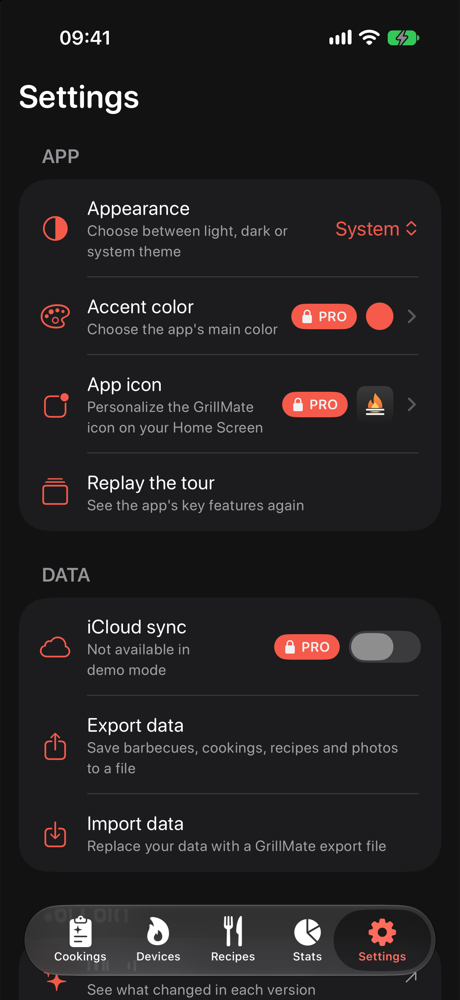
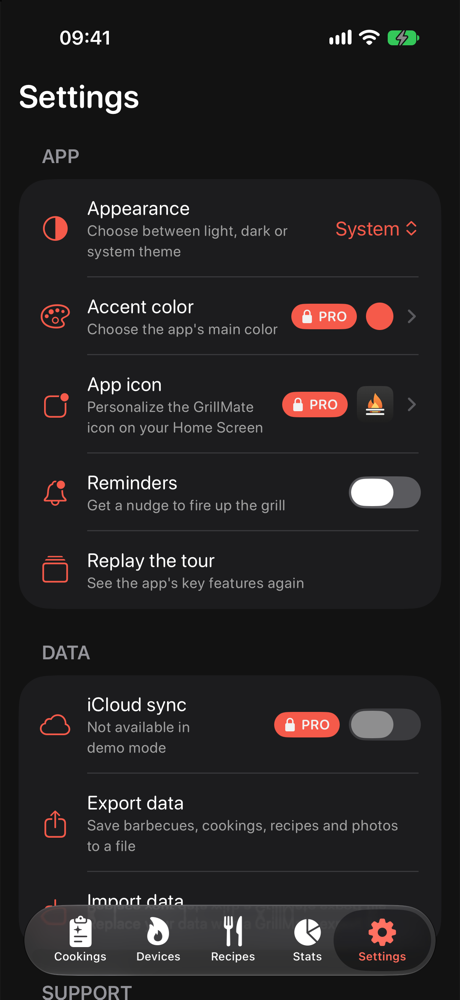
docs: refresh the showcase for engagement notifications (#9)
Add the weekly reminders (on-device AI with Foundation Models, local
notifications) to the hero, at a glance, tech stack, features and
technical highlights, and drop them from what's next. Show the new
Reminders toggle and the six-page onboarding tour.

New reminder banner screenshots; Settings and onboarding re-captured;
the Maestro onboarding GIF re-recorded for the widgets page.

diff --git a/README.md b/README.md
@@ -15,7 +15,7 @@
 
 GrillMate is a **native iOS logbook for barbecue**: record every cooking session, keep track of your grills and smokers, save the recipes you want to make again, see how you cook through **stats and charts**, and keep everything in sync across your devices with **iCloud**. It's built with **SwiftUI for iOS 26**, in **light and dark mode**.
 
-The goal is to **use every iOS feature Apple offers** where it fits a barbecue logbook: SwiftUI and Swift Charts, Core Data with CloudKit, **WidgetKit** Home Screen and Lock Screen widgets, Home Screen quick actions and alternate app icons today, and Live Activities, the Dynamic Island, Control Center controls and AlarmKit next.
+The goal is to **use every iOS feature Apple offers** where it fits a barbecue logbook: SwiftUI and Swift Charts, Core Data with CloudKit, **WidgetKit** Home Screen and Lock Screen widgets, Home Screen quick actions, alternate app icons, **local notifications** and **on-device Apple Intelligence** (Foundation Models) today, and Live Activities, the Dynamic Island, Control Center controls and AlarmKit next.
 
 A personal project by **Andrea Stevanato**, designed, built and tested end to end. The app's source code is private: this README shows what the app does and explains how it's built.
 
@@ -37,7 +37,7 @@ Website: [grillmate.pages.dev](https://grillmate.pages.dev/)
 - [🧱 Architecture](#-architecture)
 - [✨ Features](#-features)
   - [🍖 Cookings](#-cookings) · [🔥 Devices](#-devices) · [📖 Recipes](#-recipes) · [📊 Stats](#-stats)
-  - [🔲 Widgets](#-widgets) · [⚡ Quick actions](#-quick-actions) · [📲 iPhone Duo](#-iphone-duo) · [🔄 iCloud sync](#-icloud-sync) · [🔧 Settings and onboarding](#-settings-and-onboarding)
+  - [🔲 Widgets](#-widgets) · [⚡ Quick actions](#-quick-actions) · [📲 iPhone Duo](#-iphone-duo) · [🔄 iCloud sync](#-icloud-sync) · [🔔 Reminders](#-reminders) · [🔧 Settings and onboarding](#-settings-and-onboarding)
 - [💡 Technical highlights](#-technical-highlights)
 - [✅ Quality](#-quality)
 - [🔭 What's next](#-whats-next)
@@ -48,9 +48,9 @@ Website: [grillmate.pages.dev](https://grillmate.pages.dev/)
 
 | | |
 |---|---|
-| **What** | A complete iOS app: five tabs, add/edit forms with photos, charts, theming, **iCloud sync**, data export and import, **Home Screen and Lock Screen widgets**, **Home Screen quick actions**, **iPhone Duo** support, onboarding, English and Italian |
+| **What** | A complete iOS app: five tabs, add/edit forms with photos, charts, theming, **iCloud sync**, data export and import, **Home Screen and Lock Screen widgets**, **Home Screen quick actions**, weekly **reminders** with seasonal messages written by **on-device AI**, **iPhone Duo** support, onboarding, English and Italian |
 | **Architecture** | **Modular**: one Swift package per feature plus shared core and UI packages, **MVVM** with repositories and **dependency injection** |
-| **Modern Apple stack** | **Swift 6** strict concurrency, **SwiftUI**, Observation, **Swift Charts**, **WidgetKit**, **Core Data with CloudKit**, **Swift Testing** |
+| **Modern Apple stack** | **Swift 6** strict concurrency, **SwiftUI**, Observation, **Swift Charts**, **WidgetKit**, **Core Data with CloudKit**, **Foundation Models**, **UserNotifications**, **Swift Testing** |
 | **Engineering practice** | Generated Xcode project, lint in the build, unit tests per package, **Maestro UI tests**, **Xcode Cloud** tests on every push, **fastlane** TestFlight uploads, Conventional Commits, gitflow and a changelog |
 <!-- showcase:glance:end -->
 
@@ -63,6 +63,8 @@ Website: [grillmate.pages.dev](https://grillmate.pages.dev/)
 | Language | **Swift 6** with strict concurrency; main-actor default isolation and approachable concurrency in the app target |
 | UI | **SwiftUI**, Observation (`@Observable`), **Swift Charts** |
 | Persistence | **Core Data**, used as a Codable store, mirrored to the user's private iCloud database with **CloudKit** |
+| On-device AI | **Foundation Models** with guided generation, falling back to hand-written messages where Apple Intelligence isn't available |
+| Notifications | **UserNotifications**, local only: no server, no push |
 | Dependency injection | [Factory](https://github.com/hmlongco/Factory), behind a thin in-house wrapper |
 | Modularization | Local **Swift packages**: one per feature plus two shared ones |
 | Project generation | [Tuist](https://tuist.dev) |
@@ -225,17 +227,33 @@ Your logbook on every device.
 - **Reinstall and your data comes back**: the sync choice is remembered in iCloud, so a fresh install turns sync back on by itself and restores everything
 - **Export** everything, photos included, to a single file, after a confirmation that shows how many items it will contain, and **import** it back to restore your data on any iPhone
 
+### 🔔 Reminders
+A nudge to fire up the grill, once or twice a week.
+
+<p align="center">
+  <img src="assets/screenshots/reminder.png" alt="A GrillMate reminder banner on the Home Screen: Spooky smoke, a Halloween menu idea (light)" width="260">
+  <img src="assets/screenshots/reminder-dark.png" alt="A GrillMate reminder banner on the Home Screen: Spooky smoke, a Halloween menu idea (dark)" width="260">
+</p>
+
+- **Thursday evening** to plan the weekend cook and **Saturday morning** to fire it up today
+- Messages follow the **moment of the year**, with a recipe idea: Easter week and Easter Monday, Ferragosto, Halloween, Christmas, New Year and the four seasons
+- On iPhones with **Apple Intelligence**, the message is **written on the device** from what you cook: your favourite cuts and techniques, your barbecue, how long since your last cook
+- **No nudge around the days you grill**: a reminder within three days of a cook is skipped
+- Asked for **only after you add a cooking**, never at first launch, and turned on or off in Settings
+- Tapping a reminder opens a **new cooking**
+
 ### 🔧 Settings and onboarding
 
 <p align="center">
-  <img src="assets/screenshots/settings.png" alt="Settings with the Data section (light)" width="200">
-  <img src="assets/screenshots/settings-dark.png" alt="Settings with the Data section (dark)" width="200">
+  <img src="assets/screenshots/settings.png" alt="Settings with the Reminders toggle and the Data section (light)" width="200">
+  <img src="assets/screenshots/settings-dark.png" alt="Settings with the Reminders toggle and the Data section (dark)" width="200">
   <img src="assets/screenshots/onboarding.png" alt="Onboarding tour (light)" width="200">
   <img src="assets/screenshots/onboarding-dark.png" alt="Onboarding tour (dark)" width="200">
 </p>
 
 - **Light, dark or system appearance**, **six accent colors** and **ten app icons**, including Pride, Italy and USA (PRO)
-- A first-launch **onboarding tour** that can be replayed
+- A **Reminders** toggle, which points to iOS Settings when notifications are blocked
+- A first-launch **onboarding tour** that can be replayed, ending with a page about the **Home Screen widgets**
 - Privacy policy, terms of use and release notes open on the GrillMate website, in the app's language
 - Full-screen **photo viewer** with paging and pinch to zoom
 - **English and Italian**
@@ -254,22 +272,19 @@ Every quick action is a **deep link** on a custom URL scheme, parsed into a type
 The widget extension **never touches Core Data or CloudKit**: opening the store from a second process would race with the app and with iCloud mirroring. Instead the app writes a small JSON **snapshot** of what the widgets show into a shared **App Group** container, at launch, when it goes to the background, when data changes and when the theme changes, and reloads the timelines **only when the snapshot changed**, since iOS budgets reloads. The timer is drawn by the system, and a second timeline entry resets the monthly stats when a new month starts.
 
 ### 💾 Core Data as a Codable blob store
-Every persisted entity has the same three attributes: an id, a **JSON-encoded payload** of the domain model and an update date. Domain models stay plain `Codable` Swift structs, and adding a persisted type takes one entity plus a small data source on top of generic fetch and upsert helpers. Models that change shape keep **decoding their legacy payloads**, with tests that decode the old JSON. The schema follows **CloudKit's rules** (no uniqueness constraints, every attribute optional), enforced by a test, and another test **pins the model deployed to production CloudKit**, so a model change can't ship without deploying the schema first.
+Every persisted entity has the same three attributes: an id, a **JSON-encoded payload** of the domain model and an update date. Domain models stay plain `Codable` Swift structs, and adding a persisted type takes one entity plus a small data source on top of generic fetch and upsert helpers. Models that change shape keep **decoding their legacy payloads**, with tests that decode the old JSON. The schema follows **CloudKit's rules** (no uniqueness constraints, every attribute optional), enforced by a test, and another test **pins the model deployed to production CloudKit**, so a model change can't ship without deploying the schema first. Photos live in **their own entities, indexed by owner**, so list fetches never decode image data, and are **downsampled with ImageIO** before being stored.
 
 ### 🔄 iCloud sync that switches live
-A single shared Core Data stack can **reload its store** with or without `NSPersistentCloudKitContainer` on the same file, so turning sync on or off applies immediately. Without uniqueness constraints, reads keep only the newest copy of an id, deletes run in a context so they're mirrored, and remote changes, **coalesced to one per second**, tell the open lists to reload. The sync choice is also saved in **iCloud key-value storage**, which survives deleting the app, so a fresh install silently turns sync back on and the data flows back in.
-
-### 📦 A portable export format
-Export writes one **versioned JSON file** with every item and photo. Import decodes and **validates the whole file** before touching the store, rejects files from newer app versions, and replaces the data only after a confirmation that shows what the file contains.
-
-### 📸 Photos out of the hot path
-Cooking and recipe photos live in **their own entities, indexed by owner**, rather than inside the parent payload, so list fetches never decode image data. Photos are **downsampled with ImageIO** before being stored and are deleted together with their owner.
+A single shared Core Data stack can **reload its store** with or without `NSPersistentCloudKitContainer` on the same file, so turning sync on or off applies immediately. Without uniqueness constraints, reads keep only the newest copy of an id, deletes run in a context so they're mirrored, and remote changes, **coalesced to one per second**, tell the open lists to reload. The sync choice is also saved in **iCloud key-value storage**, which survives deleting the app, so a fresh install silently turns sync back on and the data flows back in. Export writes one **versioned JSON file** with every item and photo; import **validates the whole file** before touching the store and rejects files from newer app versions.
 
 ### 🎨 Design tokens and a themable accent
-Colors, fonts and SF Symbols are read through `Design` **tokens**; features never hard-code a symbol name. The accent color is an **environment value** set once at the root, so changing the theme recolors controls, cards and Swift Charts palettes in one place.
+Colors, fonts and SF Symbols are read through `Design` **tokens**; features never hard-code a symbol name. The accent color is an **environment value** set once at the root, so changing the theme recolors controls, cards and Swift Charts palettes in one place. The ten **alternate app icons** are generated from the master artwork, and the icon change goes through a **small protocol over the system API**, so it's unit-tested without UIKit.
 
-### 📱 Alternate app icons
-Ten home screen icons are **generated from the master artwork**, so each variant keeps the exact flame and grill. The picker shows small previews bundled with the Settings feature, because an app icon set can't be loaded as an image, and the icon change goes through a **small protocol over the system API**, so the logic is unit-tested without UIKit. Alternate icons are PRO: free users see them locked, but **the icon in use is never locked**, so nobody loses the icon they already set.
+### 🧠 On-device AI with a safe fallback
+Reminder messages are written by Apple's **on-device model** (Foundation Models) with **guided generation**: the model fills a typed title and body, which are checked against notification length limits. The prompt grounds it in the moment of the year, a hand-written example and the user's own cooks, and **nothing leaves the device**. Where Apple Intelligence isn't available, or a reply is rejected, a **hand-written catalogue** in English and Italian takes over. The model runs only while the app is active, is **cancelled when it goes to the background**, and its messages are kept per notification until the user's data or language changes.
+
+### 🔔 Notifications that respect the user
+The next four weeks are scheduled as **one-off local notifications**, skipping three days around any cook, in the **Gregorian calendar** whatever the region's calendar. A **singleton actor** runs reschedules one at a time, a stop request reaches even a pass still queued, and the background pass gets **extra time from iOS** to finish. Permission is asked **after the user adds a cooking**, the moment a reminder makes sense, not at first launch.
 
 ### 🧩 Shared UI, different data
 Cards, form fields, photo galleries and the stretchy photo header live in `GrillMateCoreUI`. The onboarding, the lists and the stats render **the same components**: the onboarding feeds them sample strings, the lists feed them domain data.
@@ -278,7 +293,7 @@ Cards, form fields, photo galleries and the stretchy photo header live in `Grill
 PRO status and the free-tier limits are read from a **single entitlement repository**, and the limits are configured in one place. Features ask `isPro()` and never know where the answer comes from.
 
 ### 🧪 Demo data and a dev app
-A separate **development app variant** installs next to the release one, so testing never touches the real install. Two extra schemes launch the app on an **in-memory store** filled with realistic data (barbecues, recipes and a year of cookings dated relative to today), one as a free user and one as PRO. They're used for screenshots, demos, **UI tests** and manual testing, **never touch the real store**, and are compiled only in Debug.
+A separate **development app variant** installs next to the release one, so testing never touches the real install. Two extra schemes launch the app on an **in-memory store** filled with realistic data (barbecues, recipes and a year of cookings dated relative to today), one as a free user and one as PRO. They're used for screenshots, demos, **UI tests** and manual testing, **never touch the real store**, and are compiled only in Debug. The development app also adds a **Debug overlay**, compiled only into it, that sends a test reminder on demand, written by the model or taken from the catalogue.
 
 ### 🌍 Localized per package
 Each package ships its **own string catalog** in English and Italian. A **custom SwiftLint rule** fails the build when a view in a package uses a bare string literal, which would be looked up in the app's catalog and never translated.
@@ -287,7 +302,7 @@ Each package ships its **own string catalog** in English and Italian. A **custom
 <!-- showcase:quality:start -->
 ## ✅ Quality
 
-- **Tests**: more than **100 Swift Testing tests** across the app, core, UI and feature packages, including quick-action building, the widget snapshot, an export and import round trip, restoring iCloud sync after a reinstall, a check that the Core Data model stays CloudKit-compatible, a pin of the production CloudKit schema and decoding tests for legacy payloads.
+- **Tests**: more than **200 Swift Testing tests** across the app, core, UI and feature packages, including the reminder schedule across daylight saving and region calendars, overlapping reschedules, quick-action building, the widget snapshot, an export and import round trip, restoring iCloud sync after a reinstall, a check that the Core Data model stays CloudKit-compatible, a pin of the production CloudKit schema and decoding tests for legacy payloads.
 - **UI tests**: black-box **Maestro** flows drive the real app on a simulator, starting from a clean install on the demo data, so every run is deterministic. They select views by **accessibility identifier**, defined in one place in the shared UI package, never by text, so they pass in English and Italian. One script builds the app, installs it and runs the flows with a JUnit report. See [UI tests with Maestro](#-ui-tests-with-maestro).
 - **Lint**: **SwiftLint runs before every build**, with rules such as no force unwrapping, implicit returns and closure length limits, plus custom project rules.
 - **Generated project**: the Xcode project and workspace are generated from a single **Tuist** manifest.
@@ -299,7 +314,7 @@ Each package ships its **own string catalog** in English and Italian. A **custom
 The first suite covers the **onboarding**: finishing it page by page, skipping it, swiping between pages, and checking that it isn't shown again on the next launch. Below, the "finish" flow runs on the iPhone 17 simulator: the steps on the left, the app on the right.
 
 <p align="center">
-  <img src="assets/screenshots/onboarding-ui-test.gif" alt="Maestro running the onboarding flow: each step turns green as the app moves through the five onboarding pages and lands on the Cookings tab" width="720">
+  <img src="assets/screenshots/onboarding-ui-test.gif" alt="Maestro running the onboarding flow: each step turns green as the app moves through the six onboarding pages and lands on the Cookings tab" width="720">
 </p>
 
 An excerpt of that flow:
@@ -311,7 +326,7 @@ An excerpt of that flow:
     id: onboarding.primary                     # "Continue"
 - assertVisible:
     id: onboarding.page.cookings
-# … devices, recipes, stats
+# … devices, recipes, stats, widgets
 - assertVisible:
     id: onboarding.skip
     enabled: false                             # "Skip" can't be tapped on the last page
@@ -331,7 +346,6 @@ An excerpt of that flow:
 - Control Center controls
 - Cook alarms
 - AI-assisted cooking features
-- Engagement notifications
 - Crash reporting and analytics
 - Automated App Store screenshots and CI releases
 <!-- showcase:next:end -->
